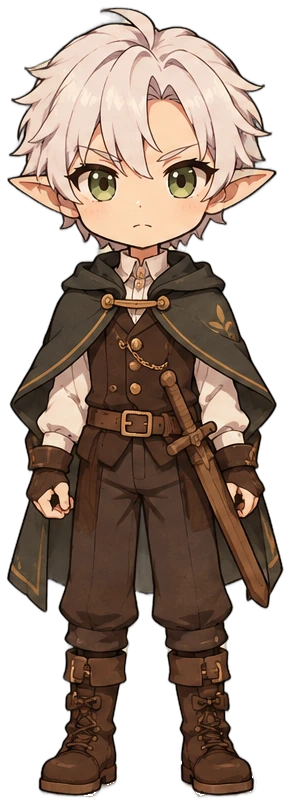
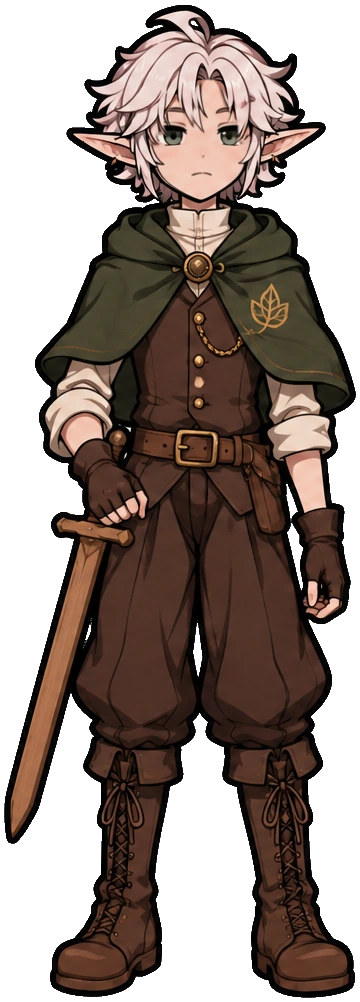
Kaname no estilo novo: 4 sentimentos, piscar só os olhos (versao 2)
Claude-Session: https://claude.ai/code/session_01UAy89vbUTZugM6nZ8sJaNe

diff --git a/CLAUDE.md b/CLAUDE.md
@@ -128,6 +128,6 @@ Cada ator da aba Atriz (`palco-animacao.html`) pode ter sentimentos: a personage
 - Palco: o texto é dividido em frases; `[surpresa]` ou `(surpresa)` no começo vale até o fim da frase, depois volta ao normal; `Tamaki: …` no começo da linha faz só esse ator falar (`FALA.quem`). Sem tag, o sentimento sai das palavras (se `emoAuto`). Botões de sentimento no painel Animação do ator.
 - Novel: `personagem tamaki "Tamaki" #cor ator Tamaki` liga ao ator (pisca e mexe a boca enquanto a fala aparece ou a voz toca); `tamaki [surpresa] "fala"` ou `tamaki (surpresa) "fala"` vale só nessa fala e volta ao do `mostra`. Sem ator, `[surpresa]` usa a arte `tamaki surpresa`.
 - Sentimentos prontos no repositório: `atores/indice.json` = `[{nome, pasta, nota, arquivos}]`, imagens em `atores/<ator>/` (WebP, mesma tela das poses originais, nomes `Tamaki_<sentimento>[_fala|_fala2|_pisca|_fala_pisca].webp`). Atriz › 😮 Sentimentos › 📥 Sentimentos prontos pergunta qual pronto (o do ator aberto vem marcado), troca para o ator com esse nome ou cria o ator se ele não existe, e instala. Arquivos sem sentimento no nome (`Kaoro.webp`, `Kaoro_fala.webp`…) vão para as poses normais (aba Imagens). Além disso, a Central (`atoresProntos()` no index.html) cria sozinha, ao abrir, todo ator do índice que ainda não existe no aparelho (uma vez só por nome: `central-atores-prontos`; apagou, não volta) e recarrega o Palco Animação. Atores prontos do Capítulo 1 (2026-11-20, folhas geradas no GPT pelo Tama): Tora, Goro, Reika, Yoru, Kiyoshi, Midori, Gen, Yuzu, Tetsuo, Banji, Hiyori, Shun, Kenichi, Momo, Kaname, Kaede, Haru e "Tamaki criança" (arquivos `Tamaki*.webp` em `atores/tamaki-crianca/`), só poses normais, WebP q92; o campo `tamanho` do índice vira o `size` do ator (crianças menores). Kaoro: só as 5 poses normais (fundo tirado com isnet-anime; todas usam o corpo da Parada e só a cabeça muda, alinhada pelo rosto, para não tremer na troca). Tamaki: feliz, animada, surpresa, convencida, emburrada, pensativa (feitas de 6 desenhos do Tama; olhos fechados = traço do olho fechado da feliz; bocas trocadas entre os desenhos dela).
-- Atores no estilo novo (bíblia de personagens, doc claude.ai/artifact/UmTf5SAu5teoMsUEmK7AdF): o Tama gera no GPT uma "ficha de expressões" = corpo inteiro com ROSTO LISO à esquerda e, à direita, grade 5 linhas × 3 colunas só de cabeças (linhas: normal, feliz, bravo, triste, surpreso; colunas: boca fechada, falando, olhos fechados). O Claude recorta (isnet-anime), acha escala/posição de cada cabeça no corpo (matchTemplate), alinha pelo nariz e cola só a pele do rosto (máscara do rosto liso do corpo), assim o cabelo e o corpo são sempre os mesmos. Vira poses normais + sentimentos (`_fala2` e `_fala_pisca` = cópia do `_fala`; sem `_pisca` quando a coluna 3 veio de olho aberto). Kaoro (versao 4), Haru, Kaede, Tamaki criança, Kenichi e Momo (versao 2) já estão assim. Scripts de referência em `ferramentas/ficha_expressoes/` (r1 fundo, r2 corta cabeças e corpo, r3 escala/posição, r4 máscara do rosto, r5b alinha pelo nariz/boca, piscar; as coordenadas mudam por personagem). Quando o isnet-anime apaga cabeças da grade, usar `fundo_branco.py` (tira o branco ligado à borda e buracos brancos fechados; no corpo qualquer buraco branco). A escala da cabeça sai melhor pela largura do rosto (rosto liso do corpo ÷ rosto da cabeça) do que pelo matchTemplate quando o cabelo é cacheado (Kaede: .78, posição pelo topo do rosto). `r5e.py` (Tamaki criança): cola só dentro do contorno convexo da pele do rosto da própria cabeça, assim o queixo da cabeça nunca aparece dentro do rosto do corpo; coluna 3 alinhada pelo nariz, e se falhar usa o ajuste da coluna 1. Kenichi (galo, `k3.py`/`k5.py`): o GPT desenhou o rosto no corpo (não veio liso), então a escala sai do matchTemplate de sobrancelhas+olhos+bico (1.28), cola o contorno convexo do rosto de penas do corpo e da cabeça, só longe da borda da cabeça (erosão de 7 px, para não trazer o contorno do pescoço), e alinha todas pela crista (o bico aberto desce e engana o alinhamento pelo bico). Piscar com os olhos fechados da própria linha (todas as colunas 3 vieram fechadas); no surpreso, pele lisa + só o traço do olho fechado, mantendo as sobrancelhas. Elfos puros (e filhos de elfo puro, como Momo e Aoi): corpo alongado (pescoço, braços, pernas e dedos compridos), orelhas muito compridas quase na horizontal, listras de tigre num tom mais escuro que a pele (testa, têmporas, embaixo dos olhos, pescoço, mãos, canelas), quase sem sobrancelha, rosto comprido e queixo fino, e o OLHO INTEIRO DE UMA COR SÓ (sem branco, sem íris/pupila; a cor varia por personagem); as cores de pele e cabelo seguem a ficha de cada um, puxando para tons claros. Referência: imagem do Tama de 2026-11-21. Num prompt de criança, não descrever partes do corpo (o filtro do GPT trava); falar em 'silhueta alongada de criatura de fantasia'. O GPT insiste em pôr branco nos olhos: `ferramentas/ficha_expressoes/verde.py` pinta o olho inteiro de verde (contorno convexo da íris + branco vizinho, mantém a linha de cima e um brilho). Ficha de expressões só com texto (o GPT do Tama tem limite de imagens): o prompt precisa descrever o rosto do jeito da ficha aprovada (cabelo, formato do rosto, olhos, barba), não só a bíblia. Limpeza da borda (rebarbas brancas do fundo): `ferramentas/limpa_borda.py` (tira pedacinhos soltos, manchinhas claras dentro do contorno perto da borda, halo branco e pixels claros semitransparentes). Só serve para o estilo novo (contorno preto grosso); nos atores antigos de traço fino ele come cabelo branco e penas brancas, então neles a limpeza fica para quando forem refeitos no estilo novo. Piscar: só os olhos trocam — elipses nos olhos (centros x 188 e 246, y 142 no recorte do corpo) recebem os olhos fechados da linha normal (a feliz usa os dela), em `_pisca` e `_fala_pisca` de todos os sentimentos; assim a boca e as sobrancelhas não mudam quando ele pisca.
+- Atores no estilo novo (bíblia de personagens, doc claude.ai/artifact/UmTf5SAu5teoMsUEmK7AdF): o Tama gera no GPT uma "ficha de expressões" = corpo inteiro com ROSTO LISO à esquerda e, à direita, grade 5 linhas × 3 colunas só de cabeças (linhas: normal, feliz, bravo, triste, surpreso; colunas: boca fechada, falando, olhos fechados). O Claude recorta (isnet-anime), acha escala/posição de cada cabeça no corpo (matchTemplate), alinha pelo nariz e cola só a pele do rosto (máscara do rosto liso do corpo), assim o cabelo e o corpo são sempre os mesmos. Vira poses normais + sentimentos (`_fala2` e `_fala_pisca` = cópia do `_fala`; sem `_pisca` quando a coluna 3 veio de olho aberto). Kaoro (versao 4), Haru, Kaede, Tamaki criança, Kenichi, Momo e Kaname (versao 2) já estão assim. Cabelo branco (Kaname): limpa_borda com `peel=1, maxman=20` para não comer mechas e pontas de orelha. Scripts de referência em `ferramentas/ficha_expressoes/` (r1 fundo, r2 corta cabeças e corpo, r3 escala/posição, r4 máscara do rosto, r5b alinha pelo nariz/boca, piscar; as coordenadas mudam por personagem). Quando o isnet-anime apaga cabeças da grade, usar `fundo_branco.py` (tira o branco ligado à borda e buracos brancos fechados; no corpo qualquer buraco branco). A escala da cabeça sai melhor pela largura do rosto (rosto liso do corpo ÷ rosto da cabeça) do que pelo matchTemplate quando o cabelo é cacheado (Kaede: .78, posição pelo topo do rosto). `r5e.py` (Tamaki criança): cola só dentro do contorno convexo da pele do rosto da própria cabeça, assim o queixo da cabeça nunca aparece dentro do rosto do corpo; coluna 3 alinhada pelo nariz, e se falhar usa o ajuste da coluna 1. Kenichi (galo, `k3.py`/`k5.py`): o GPT desenhou o rosto no corpo (não veio liso), então a escala sai do matchTemplate de sobrancelhas+olhos+bico (1.28), cola o contorno convexo do rosto de penas do corpo e da cabeça, só longe da borda da cabeça (erosão de 7 px, para não trazer o contorno do pescoço), e alinha todas pela crista (o bico aberto desce e engana o alinhamento pelo bico). Piscar com os olhos fechados da própria linha (todas as colunas 3 vieram fechadas); no surpreso, pele lisa + só o traço do olho fechado, mantendo as sobrancelhas. Elfos puros (e filhos de elfo puro, como Momo e Aoi): corpo alongado (pescoço, braços, pernas e dedos compridos), orelhas muito compridas quase na horizontal, listras de tigre num tom mais escuro que a pele (testa, têmporas, embaixo dos olhos, pescoço, mãos, canelas), quase sem sobrancelha, rosto comprido e queixo fino, e o OLHO INTEIRO DE UMA COR SÓ (sem branco, sem íris/pupila; a cor varia por personagem); as cores de pele e cabelo seguem a ficha de cada um, puxando para tons claros. Referência: imagem do Tama de 2026-11-21. Num prompt de criança, não descrever partes do corpo (o filtro do GPT trava); falar em 'silhueta alongada de criatura de fantasia'. O GPT insiste em pôr branco nos olhos: `ferramentas/ficha_expressoes/verde.py` pinta o olho inteiro de verde (contorno convexo da íris + branco vizinho, mantém a linha de cima e um brilho). Ficha de expressões só com texto (o GPT do Tama tem limite de imagens): o prompt precisa descrever o rosto do jeito da ficha aprovada (cabelo, formato do rosto, olhos, barba), não só a bíblia. Limpeza da borda (rebarbas brancas do fundo): `ferramentas/limpa_borda.py` (tira pedacinhos soltos, manchinhas claras dentro do contorno perto da borda, halo branco e pixels claros semitransparentes). Só serve para o estilo novo (contorno preto grosso); nos atores antigos de traço fino ele come cabelo branco e penas brancas, então neles a limpeza fica para quando forem refeitos no estilo novo. Piscar: só os olhos trocam — elipses nos olhos (centros x 188 e 246, y 142 no recorte do corpo) recebem os olhos fechados da linha normal (a feliz usa os dela), em `_pisca` e `_fala_pisca` de todos os sentimentos; assim a boca e as sobrancelhas não mudam quando ele pisca.
 - Atualizar um ator que já existe no aparelho: suba `versao` no item do índice. `atoresProntos()` guarda as versões em `central-atores-versao`; versão maior apaga as poses normais e as dos sentimentos do pacote e grava as novas no mesmo ator (mantém sentimentos que ele já tinha). `palavras` no item do índice = palavras de cada sentimento; `tamanho` só entra se o ator ainda não tem size.
 - Novel › 🎭 Atores (no menu e na barra do Roteiro): lista cada `personagem` com a foto, se está ligado (✅ / ⚠ ator não existe / sem ator), os sentimentos prontos e os que o roteiro pede sem pose (!). A lista de atores reescreve a linha `personagem … ator X`; os atores soltos têm ＋ Criar personagem.
